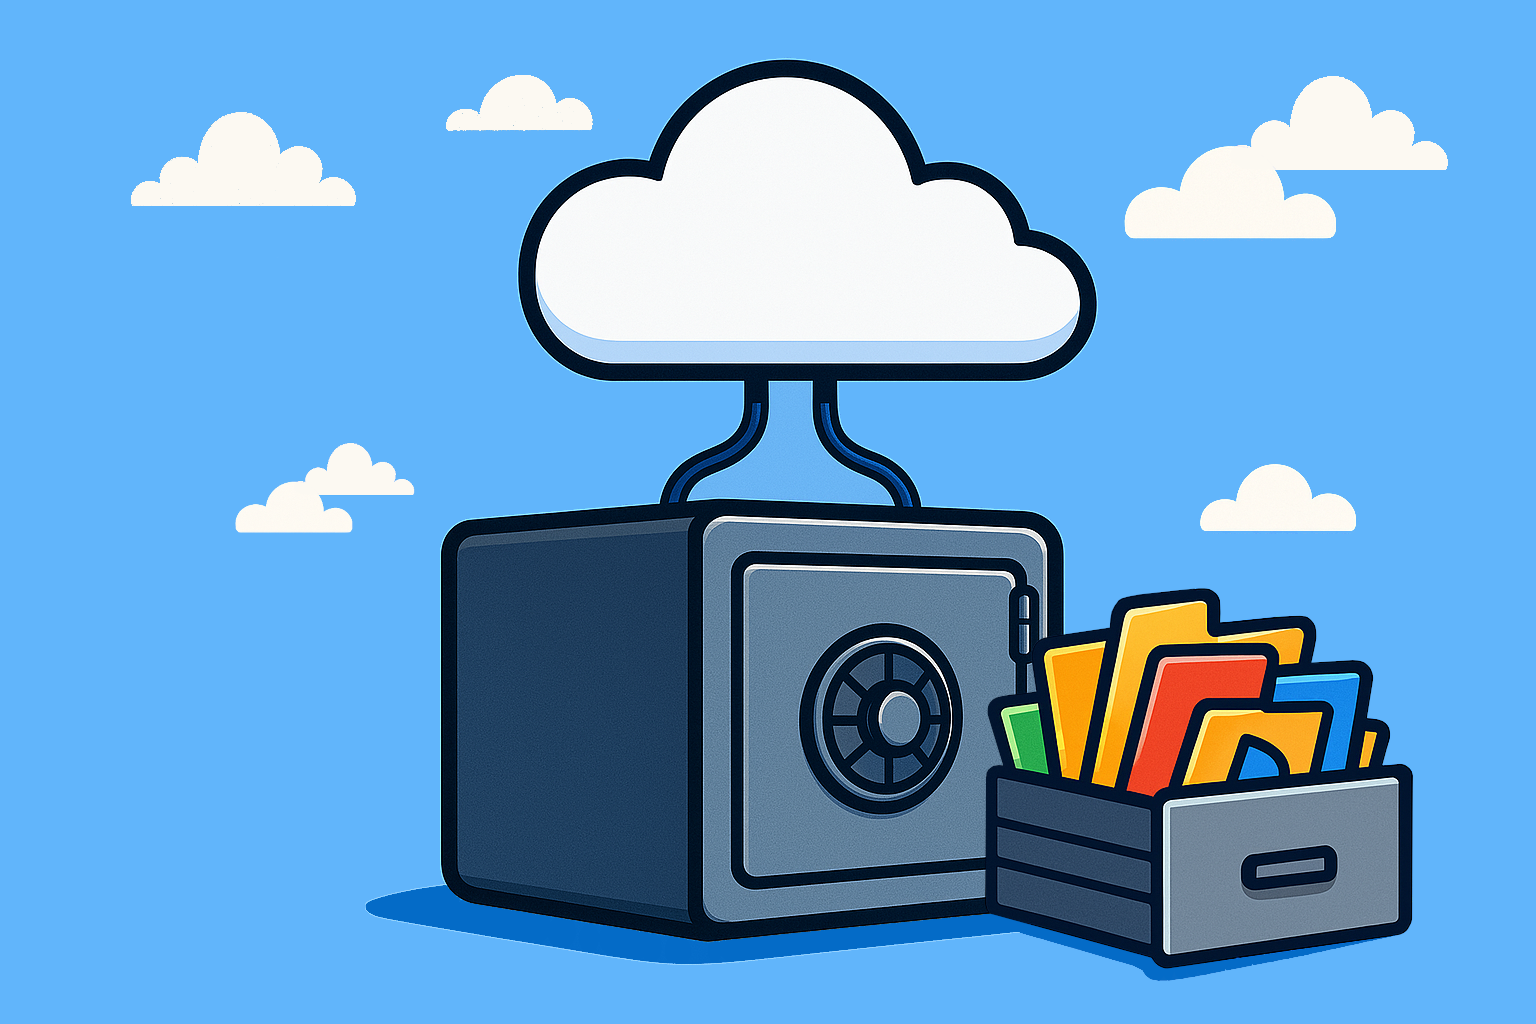
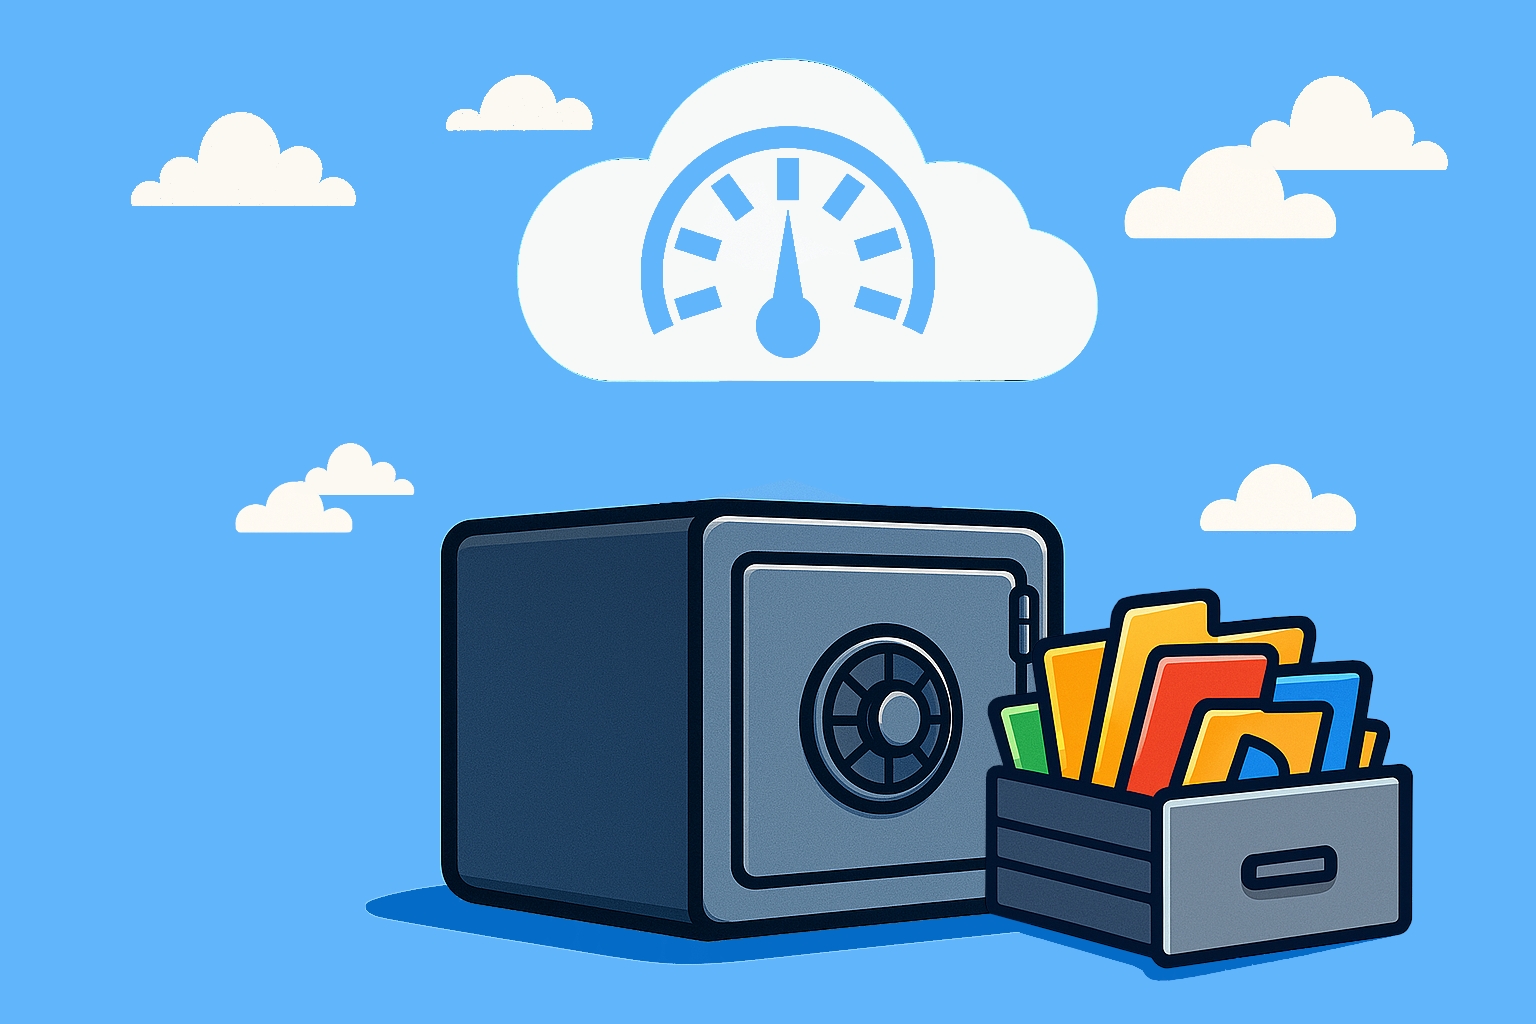
FolderAPI(groupSharing ...finished), New hero art

Changed region(s): [[0.3125, 0.0312, 0.7188, 0.5]]

diff --git a/src/app/file-requests/folders.js b/src/app/file-requests/folders.js
@@ -1,6 +1,6 @@
 "use server"
 import { getStorage, ref, deleteObject } from "firebase/storage";
-import { doc, setDoc, deleteDoc, getDoc, updateDoc, orderBy, collection, query, where, getDocs, limit, increment, Timestamp, runTransaction } from "firebase/firestore";
+import { doc, setDoc, deleteDoc, getDoc, updateDoc, orderBy, collection, query, where, getDocs, limit, increment, Timestamp, runTransaction, arrayUnion } from "firebase/firestore";
 import { db } from '@/../firebaseConfig';
 import bcrypt from 'bcrypt';
 import { folderNameRegex, passwordRegex } from "@/utils/Regex";
@@ -633,6 +633,97 @@ export const changeFolderLinkSharing = async (userID, folderID, shareValue) => {
         return { success: false, message: 'Kansion jako-asetusten muuttaminen epäonnistui, yritä uudelleen.'}
     }
 } 
+
+// Folder group sharing
+export const updateFolderGroupSharingStatus = async (userID, folderID, groupIDarray) => {
+    try {
+        if (!userID || !folderID) {
+            return { success: false, message: 'Pyynnöstä puuttuu kriittisiä tietoja. Yritä uudelleen.' };
+        }
+
+        // Validate folder
+        const folderRef = doc(db, "folders", folderID);
+        const folderSnap = await getDoc(folderRef);
+
+        if (!folderSnap.exists()) {
+            return { success: false, message: `Kansiota ${folderID} ei löytynyt.` };
+        }
+
+        const folder = folderSnap.data();
+
+        if (userID !== folder.userID) {
+            return { success: false, message: 'Sinulla ei ole tarvittavia oikeuksia kansioon.' };
+        }
+
+        // Handle empty groupIDarray
+        if (!groupIDarray || groupIDarray.length === 0) {
+            console.log("No groups provided. Disabling group sharing.");
+            await updateDoc(folderRef, { groupShare: false, shareGroups: [] });
+            return { success: true, message: 'Kansion jako ryhmissä poistettu.' };
+        }
+
+        // Validate groups in parallel
+        const validationResults = await Promise.all(
+            groupIDarray.map(async (groupID) => {
+                try {
+                    if (groupID.length !== 11) {
+                        return { groupID, valid: false, error: `Virheellinen ryhmä ${groupID}.` };
+                    }
+
+                    const groupRef = doc(db, "groups", groupID);
+                    const groupSnap = await getDoc(groupRef);
+
+                    if (!groupSnap.exists()) {
+                        return { groupID, valid: false, error: `Ryhmää ${groupID} ei löytynyt.` };
+                    }
+
+                    const group = groupSnap.data();
+
+                    if (!group.members || !group.members.includes(userID)) {
+                        return { groupID, valid: false, error: `Et ole ryhmän ${groupID} jäsen.` };
+                    }
+
+                    return { groupID, valid: true };
+                } catch (error) {
+                    console.error(`Error validating group ${groupID}:`, error);
+                    return { groupID, valid: false, error: `Virhe ryhmän ${groupID} käsittelyssä.` };
+                }
+            })
+        );
+
+        // Separate valid groups and errors
+        const validGroups = validationResults.filter((result) => result.valid).map((result) => result.groupID);
+        const groupErrors = validationResults.filter((result) => !result.valid).map((result) => result.error);
+
+        // No valid groups?
+        if (validGroups.length === 0) {
+            console.log(`User ${userID} is not a member of any valid groups.`);
+            return { success: false, message: 'Ei kelvollisia ryhmiä, missä jakaa kansio.', errors: groupErrors };
+        }
+
+        // Update folder groupSharing with valid groups
+        try {
+            await updateDoc(folderRef, {
+                groupShare: true,
+                shareGroups: arrayUnion(...validGroups),
+            });
+
+            console.log(`Folder ${folderID} updated with group sharing enabled and groups: ${validGroups}`);
+            return {
+                success: true,
+                message: 'Kansion jako ryhmissä päivitetty onnistuneesti.',
+                validGroups,
+                errors: groupErrors,
+            };
+        } catch (error) {
+            console.error("Error updating folder group sharing: ", error);
+            return { success: false, message: 'Kansion ryhmäjakamisen muutokset epäonnistuivat. Yritä uudelleen.' };
+        }
+    } catch (error) {
+        console.error(`Error sharing folder ${folderID} in groups ${groupIDarray}: ${error}`);
+        return { success: false, message: 'Kansion jakaminen ryhmissä epäonnistui. Yritä uudelleen.' };
+    }
+};
 
 
 

diff --git a/src/app/_components/Hero.js b/src/app/_components/Hero.js
@@ -4,7 +4,7 @@ import { ChevronsLeft, ChevronsRight } from 'lucide-react'
 function Hero() {
     return (
         <main>
-            <div className='flex flex-col gap-2 justify-center items-center bg-[url(/images/hero.png)] bg-center bg-contain bg-h-full rounded-r-full ml-[-2rem] h-72 md:h-96' />
+            <div className='flex flex-col gap-2 justify-center items-center bg-[url(/images/hero.png)] bg-center bg-contain bg-h-full rounded-r-full ml-[-2rem] h-80' />
 
             <div 
                 className="flex flex-col gap-6 px-4 py-4 mt-4 mx-auto max-w-3xl"
@@ -12,7 +12,7 @@ function Hero() {
                 <h1 className='text-5xl font-extrabold text-foreground'>Datakaappi</h1>
 
                 <p className="text-2xl font-semibold">
-                    Säilytä ja jaa tärkeimmät tiedostosi turvallisesti ja helposti.
+                    <span className='text-primary font-semibold'>Säilytä</span> ja <span className='text-primary font-semibold'>jaa</span> tärkeimmät tiedostosi turvallisesti ja helposti.
                 </p>
 
                 <p>

diff --git a/src/app/(pages)/ryhmat/page.js b/src/app/(pages)/ryhmat/page.js
@@ -57,10 +57,10 @@ function Page() {
 
     return (
         <main>
-            <div className='flex items-end min-h-72 bg-[url(/images/default_group_hero.png)] bg-center bg-contain rounded-lg overflow-hidden'>
+            <div className='flex items-end min-h-72 bg-[url(/images/groups_hero.png)] bg-center bg-contain rounded-lg overflow-hidden'>
                 <div className='flex flex-col gap-2 px-6 py-4 w-full bg-black/50 text-white'>
                     <h1 className="text-3xl font-black truncate">Ryhmät</h1>
-                    <p className='text-sm'>Luo yksityisiä tai julkisia jako-ryhmiä.</p>
+                    <p className='text-sm'>Luo yksityisiä tai julkisia ryhmiä, joissa voit jakaa sisältöä jäsenten kesken.</p>
                 </div>
             </div>
 

diff --git a/src/app/(pages)/kansio/[id]/_components/FolderSettings.js b/src/app/(pages)/kansio/[id]/_components/FolderSettings.js
@@ -133,6 +133,9 @@ function FolderSettings({ folder, setFolder, settings, setSettings }) {
         }
     };
 
+    //TODO: GROUP SHARING CALL
+
+
     // Change password visibility
     const changeVisibility = () => setShowPassword(!showPassword);
 
